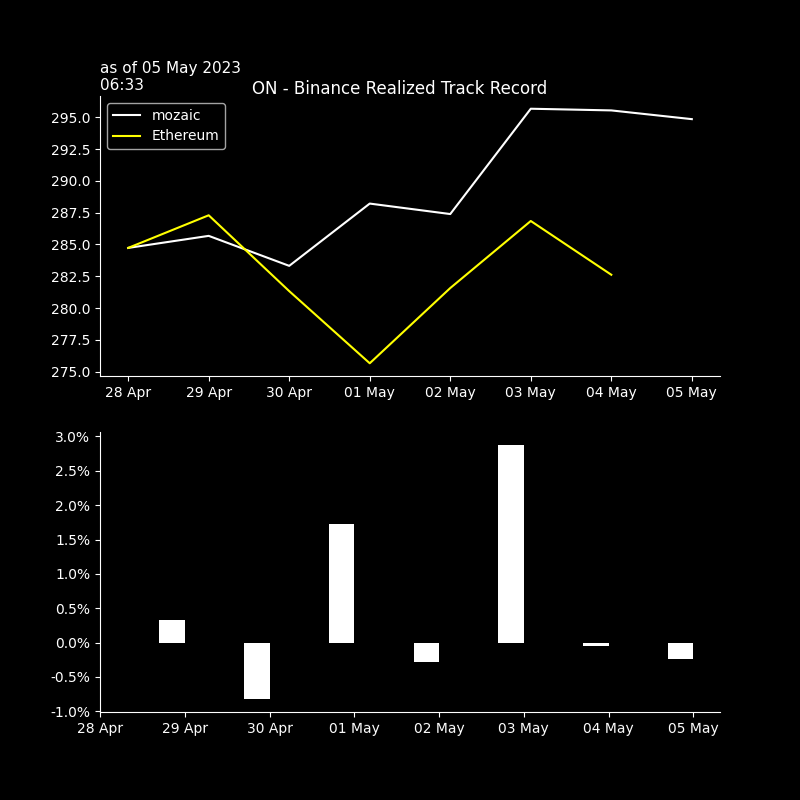
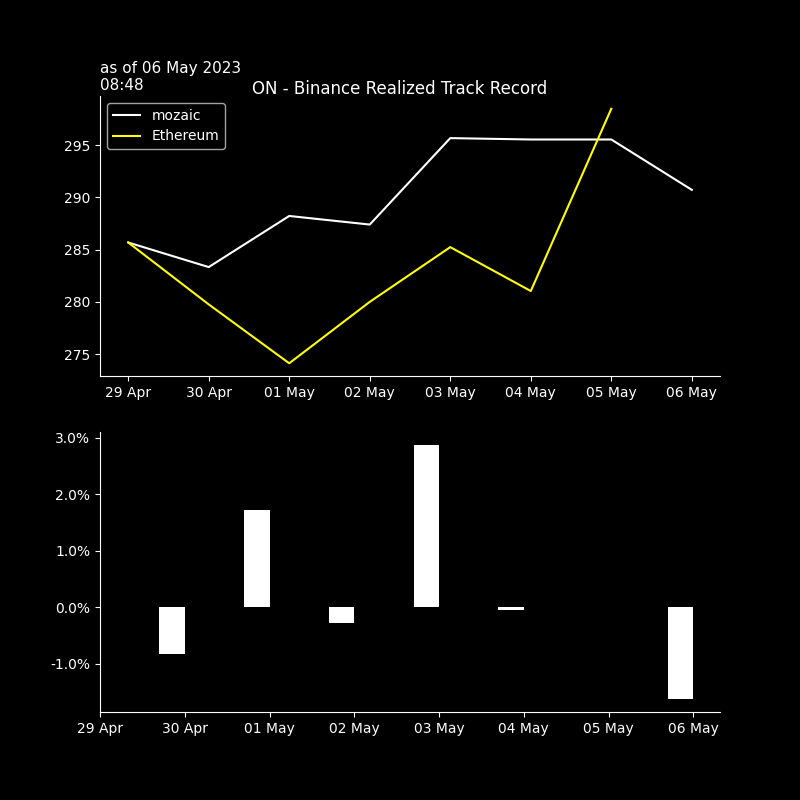
seb_commit

diff --git a/crypto/graphs/bt_trades_book.htmltrade_trades_book.html b/crypto/graphs/bt_trades_book.htmltrade_trades_book.html
@@ -37,55 +37,55 @@
   </thead>
   <tbody>
     <tr>
-      <th>ETHUSDT</th>
-      <td>1985.710</td>
-      <td>2023-05-05 20:02:24</td>
-      <td>0.074</td>
-      <td>$146.9</td>
+      <th>BTCUSDT</th>
+      <td>29365.7000</td>
+      <td>2023-05-06 07:46:51</td>
+      <td>-0.005</td>
+      <td>$-146.8</td>
       <td>$0.03</td>
       <td>2.0</td>
+      <td>-0.6</td>
+      <td>29365.05000</td>
+      <td>2023-05-06 08:43</td>
       <td>0.0</td>
-      <td>1988.16500</td>
-      <td>2023-05-05 21:01</td>
-      <td>0.2</td>
-      <td>12.0</td>
-      <td>1984.63</td>
-      <td>-0.1</td>
-      <td>-5.0</td>
+      <td>0.0</td>
+      <td>29367.9</td>
+      <td>-0.0</td>
+      <td>-1.0</td>
     </tr>
     <tr>
       <th>XRPUSDT</th>
-      <td>0.466</td>
-      <td>2023-05-05 20:02:41</td>
-      <td>316.000</td>
-      <td>$147.3</td>
+      <td>0.4618</td>
+      <td>2023-05-06 07:48:01</td>
+      <td>-316.000</td>
+      <td>$-145.9</td>
       <td>$0.03</td>
       <td>2.0</td>
-      <td>0.0</td>
-      <td>0.46655</td>
-      <td>2023-05-05 21:01</td>
-      <td>0.2</td>
-      <td>12.0</td>
-      <td>.4658</td>
+      <td>-1.3</td>
+      <td>0.46225</td>
+      <td>2023-05-06 08:43</td>
       <td>-0.1</td>
-      <td>-4.0</td>
+      <td>-10.0</td>
+      <td>.4618</td>
+      <td>0.0</td>
+      <td>0.0</td>
     </tr>
     <tr>
-      <th>BTCUSDT</th>
-      <td>29492.700</td>
-      <td>2023-05-05 20:02:33</td>
-      <td>0.005</td>
-      <td>$147.5</td>
+      <th>ETHUSDT</th>
+      <td>1959.1300</td>
+      <td>2023-05-06 07:46:24</td>
+      <td>-0.074</td>
+      <td>$-145.0</td>
       <td>$0.03</td>
       <td>2.0</td>
-      <td>0.0</td>
-      <td>29528.05000</td>
-      <td>2023-05-05 21:01</td>
-      <td>0.2</td>
-      <td>12.0</td>
-      <td>29483.2</td>
-      <td>-0.1</td>
+      <td>-2.0</td>
+      <td>1959.66500</td>
+      <td>2023-05-06 08:43</td>
+      <td>-0.0</td>
       <td>-3.0</td>
+      <td>1959.35</td>
+      <td>-0.0</td>
+      <td>-1.0</td>
     </tr>
   </tbody>
 </table>

diff --git a/crypto/graphs/bt_trades_pnlD_recap.htmltrade_trades_pnlD_recap.html b/crypto/graphs/bt_trades_pnlD_recap.htmltrade_trades_pnlD_recap.html
@@ -1,7 +1,7 @@
 <table border="1" class="dataframe">
   <thead>
     <tr style="text-align: right;">
-      <th>05 May 21:02</th>
+      <th>06 May 08:48</th>
       <th>realizedPnl</th>
       <th>PnLvsArrival</th>
       <th>PnLvsLast</th>
@@ -10,21 +10,21 @@
   <tbody>
     <tr>
       <th>in$</th>
-      <td>0.0</td>
-      <td>0.5</td>
+      <td>-3.9</td>
       <td>-0.2</td>
+      <td>-0.0</td>
     </tr>
     <tr>
-      <th>in bp 441 traded</th>
-      <td>0 bp</td>
-      <td>12 bp</td>
+      <th>in bp 437 traded</th>
+      <td>-90 bp</td>
       <td>-4 bp</td>
+      <td>-1 bp</td>
     </tr>
     <tr>
-      <th>in bp 294 AUMs</th>
-      <td>0 bp</td>
-      <td>18 bp</td>
+      <th>in bp 290 AUMs</th>
+      <td>-135 bp</td>
       <td>-6 bp</td>
+      <td>-1 bp</td>
     </tr>
   </tbody>
 </table>

diff --git a/crypto/graphs/bt_trades_recap.htmltrade_trades_recap.html b/crypto/graphs/bt_trades_recap.htmltrade_trades_recap.html
@@ -9,28 +9,28 @@
   <tbody>
     <tr>
       <th>as of</th>
-      <td>05May 20:02&gt;&gt;20:02</td>
+      <td>06May 07:46&gt;&gt;07:48</td>
       <td>#trades: 3</td>
     </tr>
     <tr>
       <th>trade net</th>
-      <td>+442.0</td>
-      <td>+149.9%</td>
+      <td>-438.0</td>
+      <td>-150.5%</td>
     </tr>
     <tr>
       <th>trade gross</th>
-      <td>+442.0</td>
-      <td>+149.9%</td>
+      <td>+438.0</td>
+      <td>+150.5%</td>
     </tr>
     <tr>
       <th>BUY</th>
-      <td>+442.0</td>
-      <td>+149.9%</td>
+      <td>+0.0</td>
+      <td>+0.0%</td>
     </tr>
     <tr>
       <th>SELL</th>
-      <td>+0.0</td>
-      <td>+0.0%</td>
+      <td>-438.0</td>
+      <td>-150.5%</td>
     </tr>
     <tr>
       <th>fees</th>
